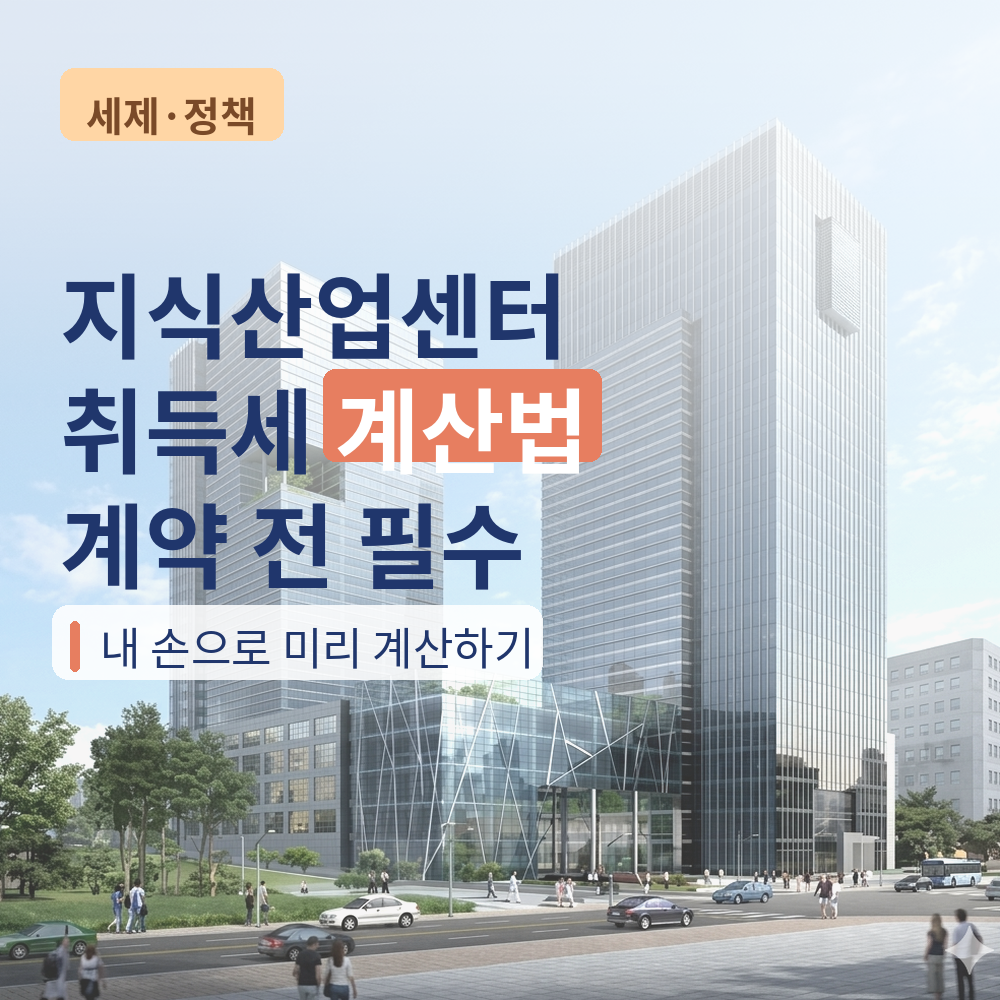
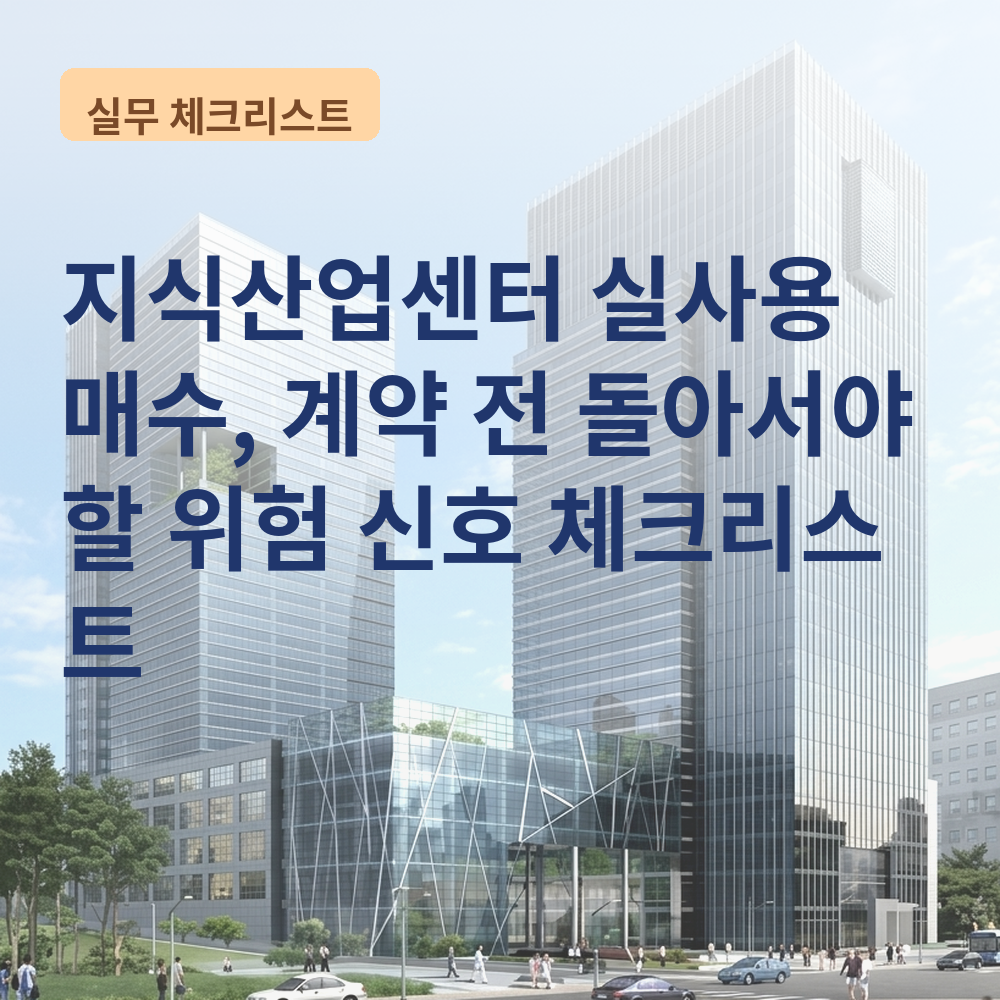
Update weekly draft state [skip ci]

diff --git a/state/draft.md b/state/draft.md
@@ -1,86 +1,74 @@
-# 지식산업센터 취득세, 계약 전에 내 손으로 계산하는 법
+# 지식산업센터 실사용 매수, 계약 전 돌아서야 할 위험 신호 체크리스트
 
 ## 3초 요약
 
-**실사용 매수자는 계약 전 감면 요건 충족 여부를 먼저 따져본 뒤, 내 취득세 실부담액을 직접 계산해봐야 한다.**
+**계약 전 매물의 분쟁 이력과 조합·시행사 관계 문서를 확인하지 않으면, 계약 후 발생하는 분쟁에서 매수자가 불리한 위치에 놓인다.**
 
-- 이 글이 필요한 사람: 동탄 지식산업센터를 분양 또는 매매로 매수해 직접 입주해 사용할 계획인 사람
-- 이 글이 필요 없는 사람: 임대 수익만 목적으로 매수하는 투자자, 이미 계약을 완료하고 등기까지 마친 사람
+- 이 글이 필요한 사람: 동탄 지식산업센터를 실사용(직접 입주) 목적으로 매수 검토 중인 사람
+- 이 글이 필요 없는 사람: 시세차익만 노리는 단순 투자자, 이미 계약을 체결하고 잔금까지 마친 사람
 
 ## 무슨 일이 있었나
 
-지식산업센터는 세법상 상업용 건물로 분류됩니다. 지식산업센터는 상업용 건물로 분류되어 취득 시 4.6%(취득세 4.0%+농어촌특별세0.2%+지방교육세0.2%)의 취득세를 납부해야 합니다.
+지식산업센터는 아파트와 달리 「집합건물법」 적용을 받는 비주거 건축물입니다.
+그래서 하자보수 절차가 아파트처럼 표준화되어 있지 않습니다.
 
-이 4.6%가 기본세율이고, 감면은 여기서 별도로 빼주는 구조입니다. 2025년 12월 31일까지 사업시설용으로 직접 사용하기 위하여 취득하는 부동산에 대해서는 취득세의 100분의 35를 경감한다.
+최근 지식산업센터 하자 보수가 제대로 이뤄지지 않아 수분양자와 임차인들이 집단 피해를 입는 사례가 잇따르고 있으며, 관리단과 시공사·관리업체 간 갈등이 장기화되면서 하자보수는 뒷전으로 밀리는 실정입니다.
 
-다만 이 감면에는 조건이 붙습니다. 다만, 다음 각 목의 어느 하나에 해당하는 경우 그 해당 부분에 대해서는 경감된 취득세를 추징한다. 정당한 사유 없이 그 취득일부터 1년이 경과할 때까지 해당 용도로 직접 사용하지 아니하는 경우, 그 취득일부터 5년 이내에 매각ㆍ증여하거나 다른 용도로 사용하는 경우
+관리규약에는 원래 이런 문제를 막기 위한 항목이 들어 있어야 합니다.
+산업집적활성화 및 공장설립에관한 법률 시행규칙에 따라 관리규약에는 공동시설의 유지·보수·대체 및 개량, 건축물의 안전관리 및 하자보수에 관한 사항이 포함되어야 합니다.
+문제는 이 항목이 "포함되어 있는지"와 "실제로 지켜지고 있는지"가 전혀 다르다는 점입니다.
 
-여기서 중요한 변화가 있습니다. 2026년부터 지방세특례제한법이 개정되면서 수도권 집중이 높은 지식산업센터, 벤처기업, 기업부설 연구소에 대해 비수도권 중심으로 감면 혜택 재설계가 이뤄졌습니다. <mark>동탄처럼 수도권에 속한 지역의 정확한 2026년 감면율은 기존 35%와 다를 수 있어 계약 전 관할 시청 세무과에서 최신 수치를 반드시 확인해야 합니다.</mark>
+업종제한도 마찬가지입니다.
+같은 업종에 속하는 시설의 총 건축연면적은 해당 지식산업센터 지원시설 총 건축연면적의 100분의 50을 초과할 수 없다는 규정이 있는데, 이 한도를 넘겨 임대·매도해 온 매물은 나중에 사업자등록이 반려되는 원인이 됩니다.
 
-[이미지: 지식산업센터 계약서와 계산기 | search: industrial center contract calculator desk]
+[이미지: 지식산업센터 계약 전 서류 검토 | search: industrial center contract document review korea]
 
-## ① 내 취득세 실부담액 계산 공식
+## 계약 전 위험 신호 체크리스트
 
-아래 순서대로 내 숫자를 넣어보세요.
+아래 표에 매물 정보를 하나씩 대입해보세요. 하나라도 "확인 불가"면 계약을 미뤄야 합니다.
 
-**1단계 – 기본 취득세 구하기**
-- 취득가액(부가세 제외, 분양가 또는 매매가) × 4.6% = 기본 취득세
-
-**2단계 – 감면 대상인지 확인**
-- 최초 분양자인가? (승계취득·일반 매매는 감면 대상 아님)
-- 중소기업을 영위하며 사업시설용으로 직접 사용할 예정인가?
-- 두 조건 모두 충족해야 감면 검토 대상이 됩니다.
-
-**3단계 – 감면율 적용**
-- 기본 취득세 × (1 − 감면율) = 실부담 취득세
-- <mark>감면율은 2025년까지 35%였으나 2026년 개정법 시행으로 지역별 차등이 생겼으므로 계약 전 반드시 최신 감면율을 확인</mark>
-
-**예시 (감면율 35% 가정 시)**
-- 취득가액 5억 원 → 기본 취득세 2,300만 원 → 감면 후 약 1,495만 원
-
-이 계산은 감면이 확정된다는 전제의 예시일 뿐, 실제 적용 여부는 3단계를 통과했는지에 달려 있습니다.
+| 확인 항목 | 확인 방법 | 위험 신호 |
+|---|---|---|
+| 관리비 미납·소송 이력 | 관리사무소에 최근 3년 회의록 열람 요청 | 회의록 열람을 거부하거나 "없다"는 답만 돌아옴 |
+| 하자보수 진행 상태 | 입주자대표회의(또는 관리단)에 하자소송 여부 문의 | 시공사와 소송 중이거나 방재실·관제센터 관련 갈등 언급 |
+| 면적 불일치 | 분양계약서 vs 등기부등본 vs 건축물대장 3종 대조 | 전용/공용면적 숫자가 셋 중 하나라도 다름 |
+| 업종제한 초과 여부 | 관리기관(산업단지공단·시청 기업지원과)에 업종 비율 문의 | 지원시설 비율이 50%에 근접하거나 초과 |
+| 용도변경 승인 이력 | 건축물대장 변경 이력, 시행사·지자체 간 소송 여부 검색 | 과거 용도변경 신청이 반려된 기록 존재 |
+| 매도인의 매도 이유 | 매도인 또는 중개사에게 직접 질문 | "그냥 정리하려고"라는 답 외 구체적 설명 회피 |
 
 ## 판단 기준 3가지
 
-**1. 호실의 용도가 감면 대상으로 명확히 구분되어 있는가**
-분양·매매 계약서상 호실이 공장이나 지식산업·정보통신업 등 입주가능업종 용도로 지정되어 있는지가 출발점입니다. 지원시설(근린생활시설 등)로 구분된 호실은 아예 감면 대상이 아닐 수 있어, 이 부분이 정리되지 않으면 이후 계산 자체가 무의미해집니다.
+**1. 관리규약·회의록에 미해결 분쟁이 남아 있는지 확인되지 않았다면 결론을 내리기 이르다.**
+관리비 체납이나 하자보수 다툼은 매수 후 새 소유자에게 그대로 승계되는 경우가 많습니다. 회의록을 못 보여준다는 것 자체가 이미 신호이며, 이 부분이 투명하지 않으면 나머지를 아무리 잘 따져도 소용이 없습니다.
 
-**2. 직접 입주해 사용할 것인지, 일부라도 임대할 계획인지**
-감면은 실사용자에게만 적용되고 임대 목적이 섞이면 해당 부분은 추징 대상이 됩니다. 지식산업센터 설립자가 관련법령에 따른 입주가능 업종을 운영하는 자와 분양계약을 체결하였는지 여부, 실제로 수분양자가 임대 등 다른 용도로 사용하는 경우라면 경감받은 취득세는 추징할 수 있다고 보아야 할 것입니다. 계약 전 향후 몇 년간 실제 사용 계획이 얼마나 구체적인지 스스로 점검해봐야 합니다.
+**2. 분양계약서상 면적과 등기부·건축물대장 면적이 일치하는지 확인되지 않았다면 결론을 내리기 이르다.**
+전용면적과 공용면적 표기가 서류마다 조금씩 다른 매물이 실제로 존재합니다. 이 차이는 대출 한도, 관리비 산정, 향후 매도가 산정에 모두 영향을 주기 때문에 셋을 나란히 놓고 대조하지 않으면 판단할 수 없습니다.
 
-**3. 감면 요건 유지 기간 동안 매도나 용도 변경 계획이 없는가**
-취득 후 일정 기간 내 매각이나 용도 변경을 하면 감면받은 세액이 이자상당액까지 더해 추징됩니다. 지금 계획이 없더라도 회사 이전, 사업 확장 등으로 몇 년 내 매도할 가능성이 있는지까지 미리 생각해봐야 결론을 내릴 수 있습니다.
-
-## 내 경우 계산해보기
-
-취득가액과 예상 감면율을 넣으면 실부담 취득세와 초기 실투자금 규모를 함께 확인할 수 있습니다.
-
-[실투자금 계산기에서 내 숫자로 확인하기](https://jay70park-cyber.github.io/jisik-calc/)
-
-계산기 결과는 참고용이며, 실제 감면 여부와 세액은 계약 조건과 관할 지자체 확인에 따라 달라질 수 있습니다.
+**3. 업종제한·용도변경 관련 지자체·시행사 간 과거 분쟁 사례가 있었는지 확인되지 않았다면 결론을 내리기 이르다.**
+지식산업센터는 공장 용도가 기본이라 사무실·근생으로 바꾸려면 관리기관과 새로 계약을 맺어야 합니다. 용도변경은 사업내용을 실질적으로 변경하는 것으로 보아 관리기관과 변경계약을 체결하지 않으면 신청 자체가 수리되지 않은 판례가 있고, 다른 구분소유자의 동의 없이 용도변경을 허용하면 기존 지원시설의 가치가 하락할 우려가 있다는 재판부 판단도 있습니다. 이런 전례가 있는 건물인지 모르고 계약하면, 원하는 업종으로 입주조차 못 할 수 있습니다.
 
 ## 동탄은 어떤가
 
-동탄은 수도권정비계획법상 과밀억제권역이 아닌 지역입니다. 김포시, 화성시(동탄 포함), 용인시, 평택시, 파주시 등 경기도 외곽 지역이 수도권 비과밀억제권역에 해당하며, 이번 변화에 직접 영향을 받습니다.
+동탄은 이 세 가지 확인이 유독 중요한 지역입니다.
+2기 신도시인 판교·동탄 등은 자족시설용지 비율이 평균 6.7%였는데, 이후 3기 신도시는 이 비율이 16.4%까지 늘며 공급 과잉의 배경이 됐습니다.
+그 결과 경기도 내 지식산업센터는 5월 말 기준 595개 단지, 16만2509호에 이르며 이 중 14.8%인 2만4129호가 공실인 상태입니다.
 
-즉 서울 강남 같은 과밀억제권역보다는 상대적으로 나은 조건이지만, 2026년 개정으로 비수도권 대비 감면율이 낮게 설계된 구조라 <mark>동탄 지식산업센터의 정확한 2026년 취득세 감면율은 매물마다, 시점마다 다를 수 있어 계약 전 개별 확인이 필수</mark>입니다.
+공급이 몰린 지역일수록 관리단 구성이 늦어지고 관리 주체가 불안정한 경우가 많습니다. 실제로 동탄의 한 지식산업센터에서는 관제센터 점거로 냉방 시설 가동 중단, 내부 시설물 파손 등 입주사 업무에 직접 지장을 준 관리권 분쟁 사례가 있었습니다. 동탄에서 매물을 볼 때는 "관리단이 정식으로 구성돼 있는지, 관리규약이 언제 마지막으로 개정됐는지"를 반드시 물어봐야 하는 이유입니다.
 
-[이미지: 동탄 테크노밸리 지식산업센터 전경 | search: dongtan techno valley industrial building]
-
-또한 동탄테크노밸리는 동탄테크노밸리 사업개요 위치는 동탄2신도시 북쪽이며 면적 약47만평, 입주기업 4,500개, 상주인구 20만명 규모로 조성되어 호실 용도 구분이 단지마다 다르게 설계된 경우가 많습니다. 같은 건물 안에서도 공장형·라이브오피스형·기숙사형이 섞여 있는 경우가 있어, 자신이 계약하려는 호실이 정확히 어떤 용도로 분류되어 있는지 도면과 분양계약서를 함께 대조해봐야 합니다.
+[이미지: 동탄 지식산업센터 밀집 지역 | search: dongtan techno valley industrial complex]
 
 ## 이 판단이 틀릴 수 있는 경우
 
-- 법 개정이 시행 중인 시점이라 2026년 하반기에도 세부 감면율이나 유예기간이 추가로 조정될 수 있습니다.
-- 계약 시점과 등기(취득) 시점이 다를 경우 적용되는 법령 기준일이 달라져 같은 매물이라도 감면 결과가 바뀔 수 있습니다.
-- 개인사업자에서 법인전환 등 사업 형태가 바뀌는 경우 감면이 유지되지 않는 사례가 있어, 이 글의 계산 공식이 모든 상황에 그대로 적용되지 않을 수 있습니다.
+- 신축 분양으로 아직 입주자대표회의가 구성되지 않은 매물은 애초에 회의록이 존재하지 않을 수 있습니다. 이 경우 분양계약서와 시행사의 과거 시공 이력을 대신 확인해야 합니다.
+- 면적 불일치가 있어도 등록 오류처럼 단순 행정 실수인 경우도 있어, 발견 즉시 계약 파기가 아니라 정정 가능 여부를 먼저 따져야 합니다.
+- 업종제한은 관리기관 재량으로 예외가 인정되는 경우도 있어, <mark>지자체·산업단지공단마다 해석이 다를 수 있으니 개별 문의가 필요합니다.</mark>
 
 ## 더 읽어보기
 
-- [지식산업센터 취득세 감면 또는 추징 조건](https://blog.naver.com/lsmnmh25/224351066630)
-- [지식산업센터 임대 취득세 감면 신고 방법](https://blog.naver.com/gus201166/223852320834)
-- [지식산업센터 취득세 - 감면사례 판례](https://blog.naver.com/onbusiness_/224129312298)
+- 신기술 없이 "3년내 반값 전기차" 테슬라 시총 23조 증발 외 경제... (https://monicareport.tistory.com/128)
+- 대기, 수질, 소음진동, 악취, 공기질 측정대행업 업체 List 공유 (https://yeosuesh.tistory.com/193)
+- 산업일보뉴스, '부정경쟁방지 및 영업비밀보호에 관한 법률'에 법... (https://industry.daara.co.kr/6916)
 
 ## 이 주제를 고른 이유
 
-실사용 매수자 상담을 준비하며 가장 많이 받는 질문이 "그래서 내가 낼 취득세가 정확히 얼마냐"였습니다. 특히 2026년 법 개정 이후로는 예전 숫자만 믿고 계산하면 오차가 커질 수 있어, 계산 순서 자체를 정리해둘 필요가 있다고 판단했습니다.
+최근 검색 데이터에서 '지식산업센터 분쟁' 키
